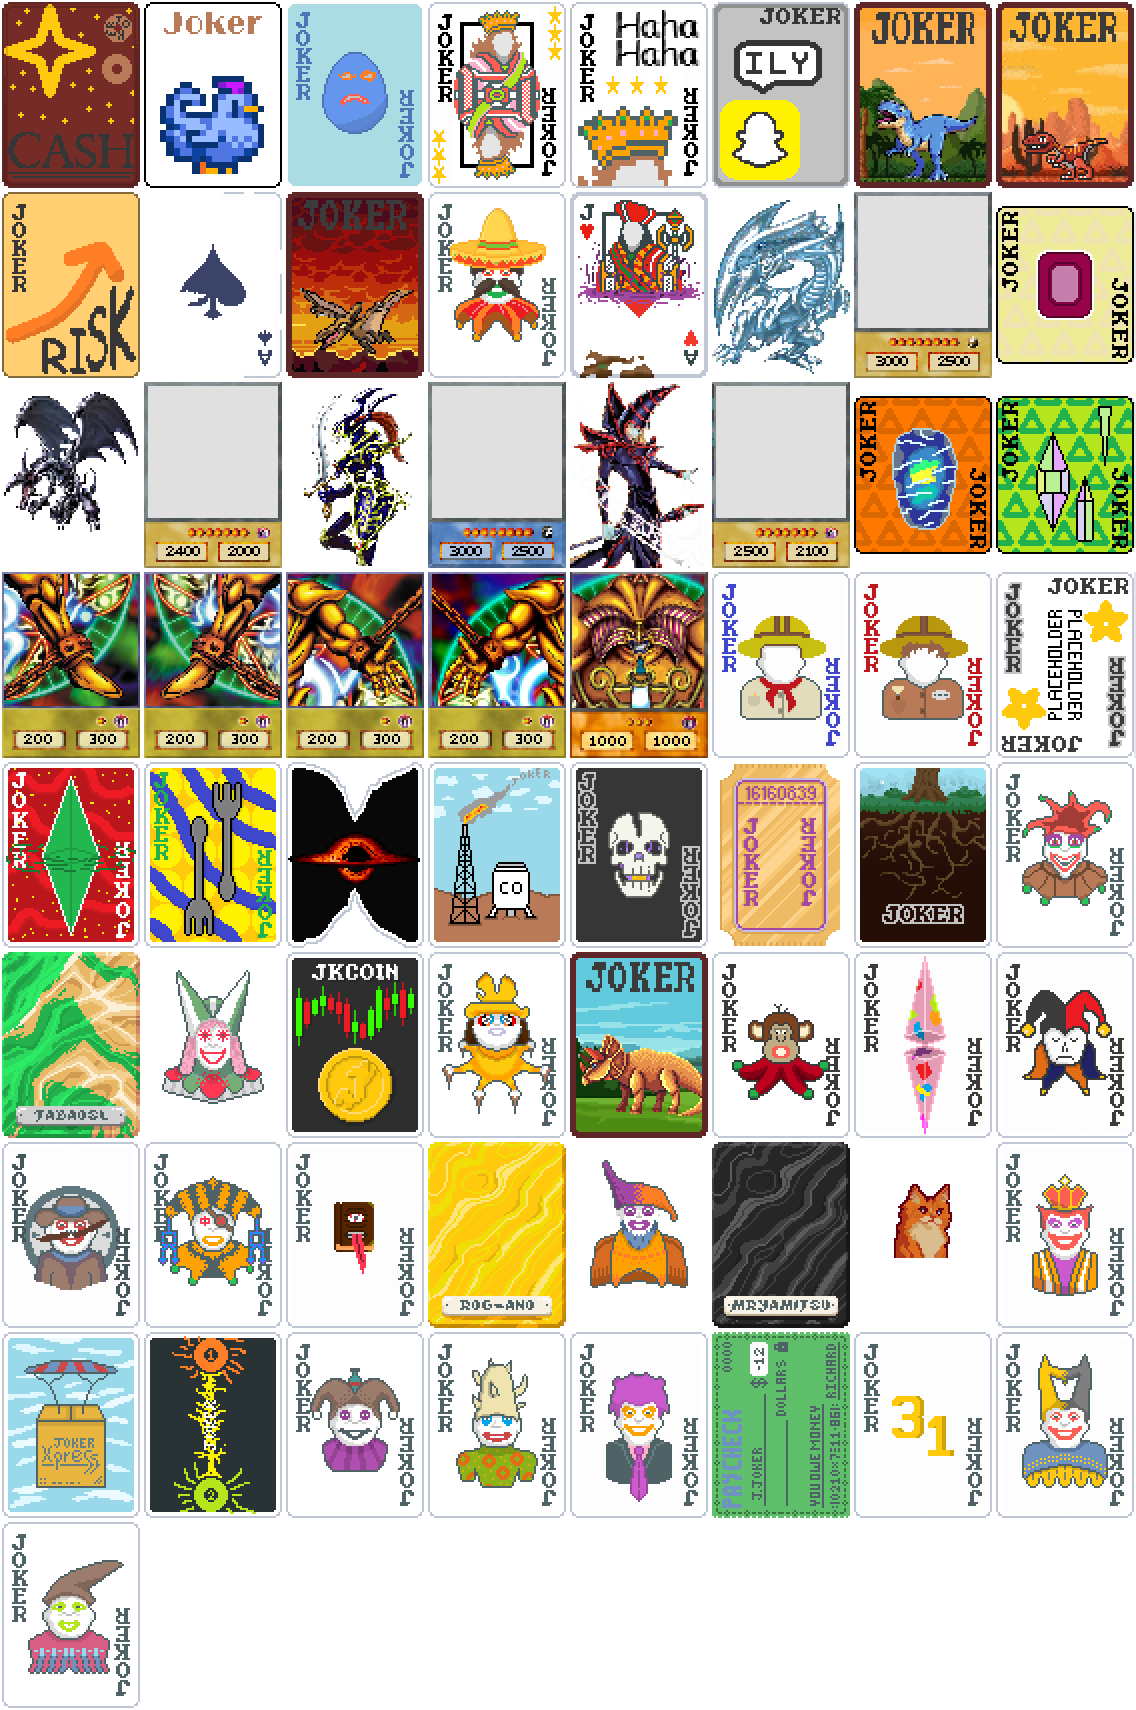
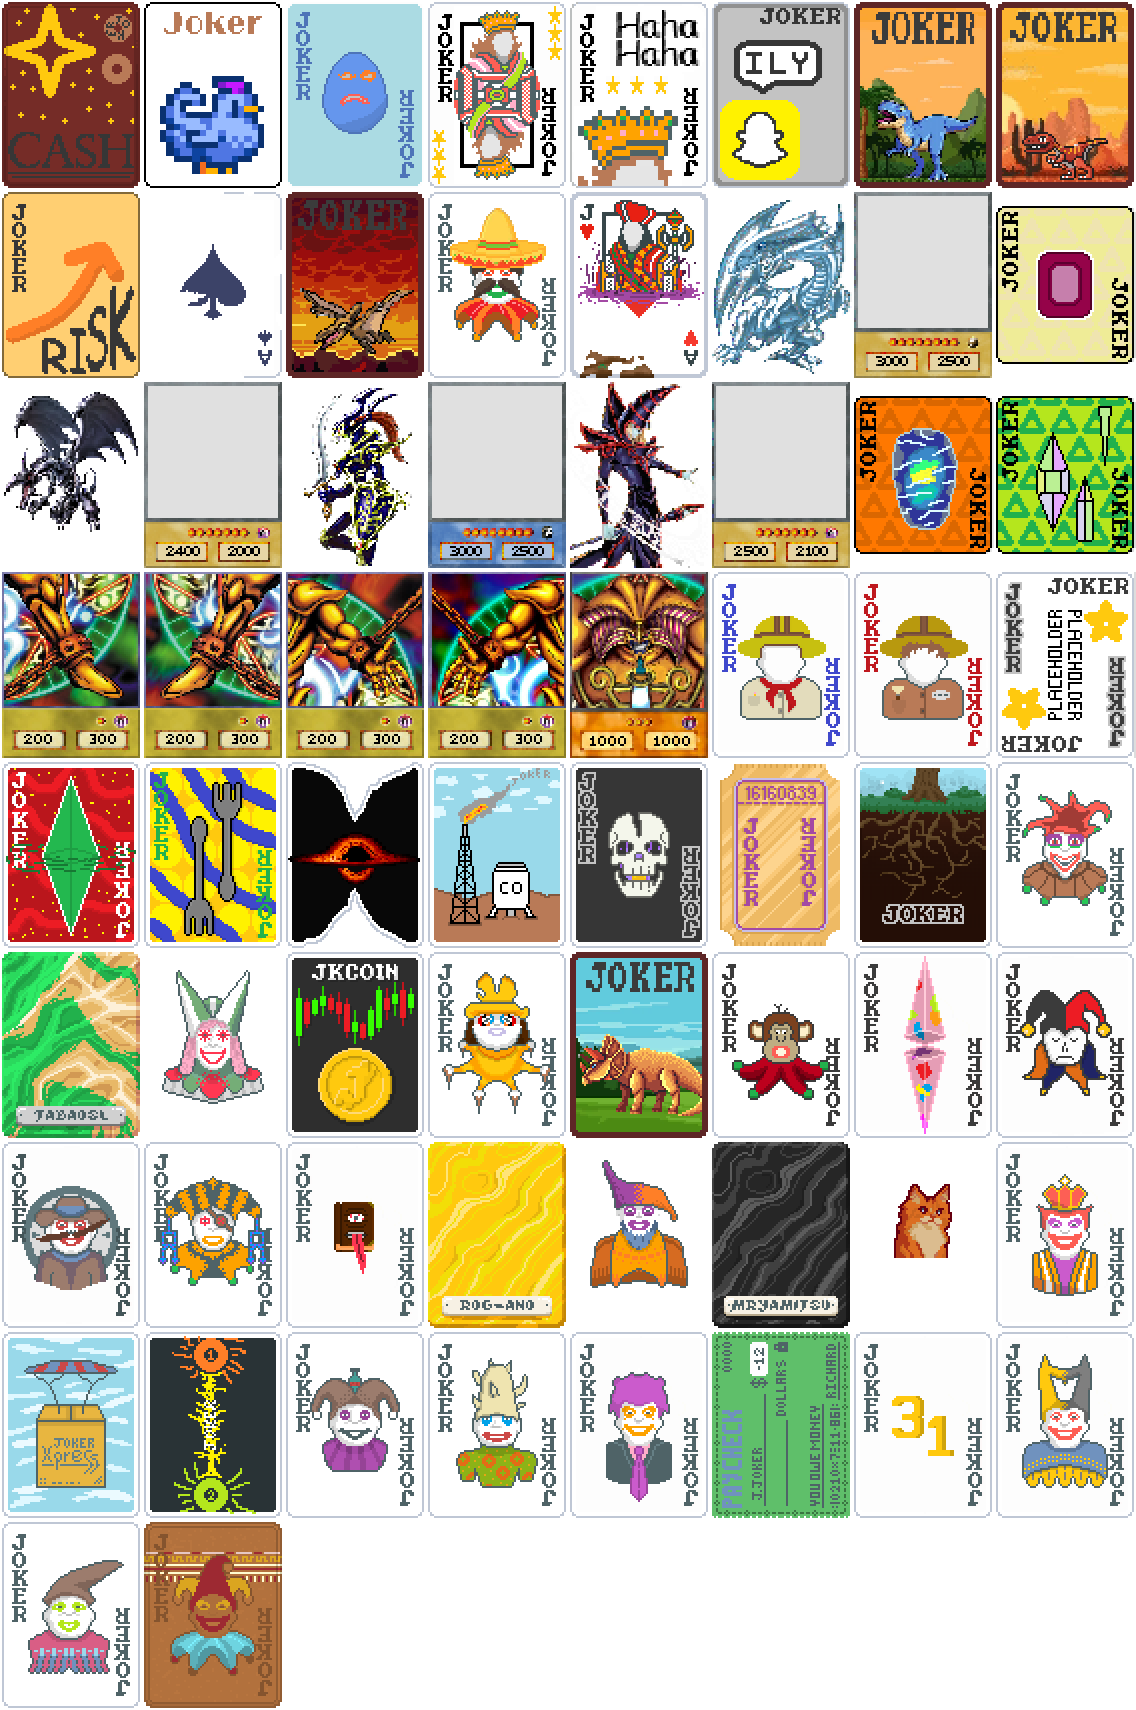
Add a new Joker

Changed region(s): [[0.1232, 0.8678, 0.2465, 1.0]]

diff --git a/README.md b/README.md
@@ -46,7 +46,7 @@
     <tbody>
         <tr>
             <td>Jokers</td>
-            <td>57+ (+11 Cross-Mod)</td>
+            <td>58+ (+11 Cross-Mod)</td>
             <td>Planets</td>
             <td>16</td>
         </tr>
